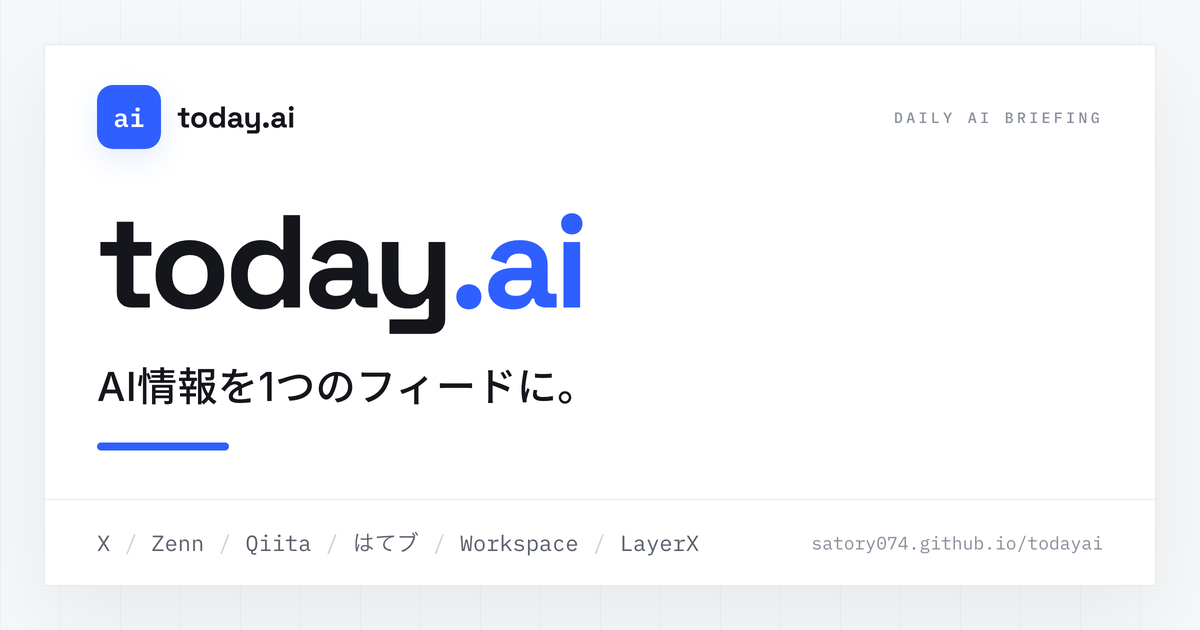
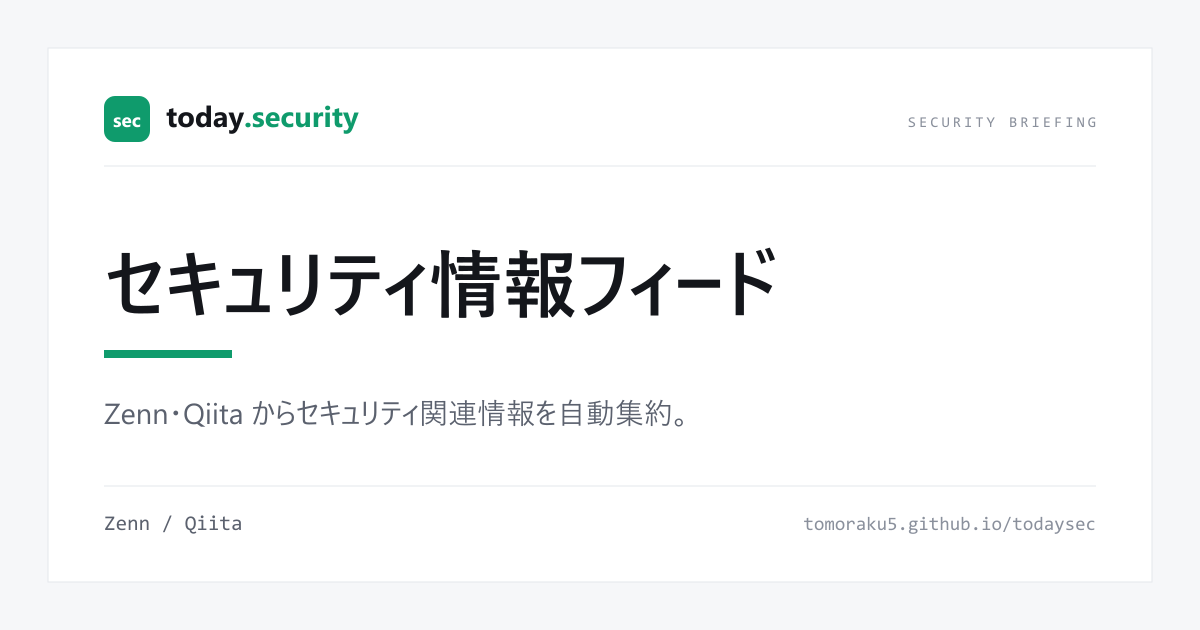
feat: OGP 画像を today.security 用に作り直し、生成をスクリプト化
旧 og-default.png には today.ai のロゴ・「AI情報フィード」・停止済みソースの羅列に
加え、右下に旧URL satory074.github.io/todayai が焼き込まれていた。SNS に URL を
貼ると他人のサイトを宣伝する形になるため作り直す。

手描き差し替えではなく scripts/generateOgImage.ts で SVG を組み立てて sharp で
PNG 化する方式にした（文言・配色の変更が差分で追え、後から作り直せるため）。

内容:
- ロゴ [sec] today.security（バッジはエメラルドグリーン #0f9b6c、".security" も同色）
- 見出し「セキュリティ情報フィード」＋アクセントバー
- 説明「Zenn・Qiita からセキュリティ関連情報を自動集約。」
- ソース名は Zenn / Qiita のみ、右下URLは tomoraku5.github.io/todaysec
- 配色は globals.css の @theme トークンに合わせ、カードの角は site と同じく直角
  （元デザインの朝刊テイストは踏襲しつつレイアウトは組み直し）

ドキュメント: CLAUDE.md（コマンド＋gotcha）と README.md に生成手順を追記。
sharp が astro の推移的依存であること、フォントは生成 PC 依存であることも明記。

検証: npx tsx scripts/generateOgImage.ts → 1200x630 / 39,490 bytes。
npm run typecheck（0 errors）/ npm run build 成功。dist/og-default.png も
1200x630 でコピーされ、dist の og:image は
https://tomoraku5.github.io/todaysec/og-default.png を指すことを確認。

diff --git a/scripts/generateOgImage.ts b/scripts/generateOgImage.ts
@@ -1,0 +1,127 @@
+/**
+ * OGP 画像（`public/og-default.png`・1200x630）を SVG から生成する。
+ *
+ * SNS やチャットに URL を貼ったときに表示される「看板」画像。手描きの PNG を差し替えると
+ * 差分が追えず作り直しもできないので、**SVG をコードで組み立てて sharp で PNG 化**する。
+ * 文言や配色を変えたいときはこのファイルを編集して再実行すればよい。
+ *
+ * 実行:
+ *   npx tsx scripts/generateOgImage.ts
+ *
+ * ⚠ sharp について: `package.json` の直接依存ではなく astro の推移的依存として入っている。
+ * 将来 astro が sharp を落とすと解決できなくなるので、その場合は `npm i -D sharp` する。
+ *
+ * ⚠ フォントについて: SVG のテキストは**生成した PC にインストールされているフォント**で
+ * ラスタライズされる（サイトが使う Space Grotesk / IBM Plex Mono は Web フォントなのでここでは載らない）。
+ * 別の PC で再生成すると字形が変わることがある。出力 PNG はリポジトリにコミットしてあるので、
+ * 文言を変えないかぎり再生成は不要。
+ */
+import * as fs from "node:fs";
+import * as path from "node:path";
+import sharp from "sharp";
+
+const WIDTH = 1200;
+const HEIGHT = 630;
+const OUT = path.join(process.cwd(), "public", "og-default.png");
+
+/** サイトの配色トークン（src/styles/globals.css の @theme と揃える）。 */
+const C = {
+  bg: "#f6f7f9",
+  card: "#ffffff",
+  border: "#e4e7ec",
+  text: "#14161b",
+  muted: "#5b616e",
+  subtle: "#8a909c",
+  logo: "#0f9b6c", // globals.css の color-logo（エメラルドグリーン）
+};
+
+/**
+ * フォントスタック。サイト本体の Web フォントは使えないので、Windows / macOS に
+ * 標準で入っている近いものへフォールバックさせる。
+ */
+const F = {
+  sans: "'Segoe UI', 'Yu Gothic UI', 'Hiragino Sans', sans-serif",
+  jp: "'Yu Gothic UI', 'Yu Gothic', 'Hiragino Sans', Meiryo, sans-serif",
+  mono: "Consolas, 'SFMono-Regular', Menlo, monospace",
+};
+
+/** SVG に文字列を埋めるときのエスケープ（& や < がそのまま入ると XML が壊れる）。 */
+function esc(s: string): string {
+  return s
+    .replace(/&/g, "&amp;")
+    .replace(/</g, "&lt;")
+    .replace(/>/g, "&gt;")
+    .replace(/"/g, "&quot;");
+}
+
+/** 掲載する文言。ここだけ直せば内容を変えられる。 */
+const CONTENT = {
+  wordmarkHead: "today",
+  wordmarkTail: ".security",
+  kicker: "SECURITY BRIEFING",
+  headline: "セキュリティ情報フィード",
+  description: "Zenn・Qiita からセキュリティ関連情報を自動集約。",
+  sources: "Zenn / Qiita",
+  url: "tomoraku5.github.io/todaysec",
+};
+
+function buildSvg(): string {
+  const pad = 48; // 用紙の余白
+  const cx = pad; // カード左端
+  const cy = pad; // カード上端
+  const cw = WIDTH - pad * 2;
+  const ch = HEIGHT - pad * 2;
+  const inner = cx + 56; // カード内のテキスト左端
+  const right = cx + cw - 56; // カード内の右端
+
+  return `<svg xmlns="http://www.w3.org/2000/svg" width="${WIDTH}" height="${HEIGHT}" viewBox="0 0 ${WIDTH} ${HEIGHT}">
+  <rect width="${WIDTH}" height="${HEIGHT}" fill="${C.bg}"/>
+
+  <!-- カード面。サイトのカードに合わせて角は丸めない（globals.css の rounded-none） -->
+  <rect x="${cx}" y="${cy}" width="${cw}" height="${ch}" fill="${C.card}" stroke="${C.border}" stroke-width="1"/>
+
+  <!-- ヘッダー: ロゴバッジ ＋ ワードマーク / 右にキッカー -->
+  <rect x="${inner}" y="96" width="46" height="46" rx="11" fill="${C.logo}"/>
+  <text x="${inner + 23}" y="127" font-family="${F.sans}" font-size="19" font-weight="700" text-anchor="middle" fill="#ffffff">sec</text>
+  <text x="${inner + 62}" y="127" font-family="${F.sans}" font-size="29" font-weight="700" fill="${C.text}">${esc(
+    CONTENT.wordmarkHead,
+  )}<tspan fill="${C.logo}">${esc(CONTENT.wordmarkTail)}</tspan></text>
+  <text x="${right}" y="127" font-family="${F.mono}" font-size="15" letter-spacing="3" text-anchor="end" fill="${C.subtle}">${esc(
+    CONTENT.kicker,
+  )}</text>
+  <line x1="${inner}" y1="166" x2="${right}" y2="166" stroke="${C.border}" stroke-width="1"/>
+
+  <!-- 主役: 見出し ＋ アクセントバー ＋ 説明文 -->
+  <text x="${inner}" y="312" font-family="${F.jp}" font-size="74" font-weight="700" fill="${C.text}">${esc(
+    CONTENT.headline,
+  )}</text>
+  <rect x="${inner}" y="350" width="128" height="8" fill="${C.logo}"/>
+  <text x="${inner}" y="424" font-family="${F.jp}" font-size="29" fill="${C.muted}">${esc(
+    CONTENT.description,
+  )}</text>
+
+  <!-- フッター: ソース名 / 公開URL -->
+  <line x1="${inner}" y1="486" x2="${right}" y2="486" stroke="${C.border}" stroke-width="1"/>
+  <text x="${inner}" y="530" font-family="${F.mono}" font-size="21" fill="${C.muted}">${esc(
+    CONTENT.sources,
+  )}</text>
+  <text x="${right}" y="530" font-family="${F.mono}" font-size="19" text-anchor="end" fill="${C.subtle}">${esc(
+    CONTENT.url,
+  )}</text>
+</svg>`;
+}
+
+async function main(): Promise<void> {
+  const svg = buildSvg();
+  const out = await sharp(Buffer.from(svg)).png({ compressionLevel: 9 }).toFile(OUT);
+  const rel = path.relative(process.cwd(), OUT);
+  console.log(`✅ ${rel} を生成: ${out.width}x${out.height} (${fs.statSync(OUT).size} bytes)`);
+  if (out.width !== WIDTH || out.height !== HEIGHT) {
+    throw new Error(`サイズが想定と違う: ${out.width}x${out.height}（期待 ${WIDTH}x${HEIGHT}）`);
+  }
+}
+
+main().catch((e) => {
+  console.error("OGP 画像の生成に失敗:", (e as Error).message);
+  process.exit(1);
+});

diff --git a/README.md b/README.md
@@ -38,12 +38,29 @@ npm run dev         # http://localhost:4321/todaysec/
 | `npm run dev` | 開発サーバー（<http://localhost:4321/todaysec/>） |
 | `npm run build` | 本番ビルド（Astro グラフの型チェック込み） |
 | `npm run typecheck` | `astro check`。`scripts/` も型検査される |
+| `npx tsx scripts/generateOgImage.ts` | OGP 画像 `public/og-default.png` を再生成（下記） |
 
 テストフレームワークはありません。検証は `npm run typecheck` / `npm run build` と、
 `npm run aggregate` の実行ログで行います。
 
 > **`scripts/` を変更したら `npm run typecheck` を実行してください。**
 > `npm run build` は Astro が読み込むファイルしか型検査せず、`scripts/` は対象外のためです。
+
+## OGP 画像の作り直し
+
+SNS やチャットに URL を貼ったときに表示される画像（`public/og-default.png`・1200x630）は、
+**コードから生成**しています。画像編集ソフトは不要です。
+
+```bash
+npx tsx scripts/generateOgImage.ts
+```
+
+文言や色を変えたいときは `scripts/generateOgImage.ts` の冒頭にある `CONTENT`（文言）と
+`C`（配色）を編集して、上のコマンドを実行し直してください。生成された PNG はリポジトリに
+コミットするので、普段は再生成不要です。
+
+> 画像内の文字は**実行した PC にインストールされているフォント**で描画されます。
+> 別の PC で再生成すると字形が少し変わることがあります。
 
 ## 収集しているソース
 
